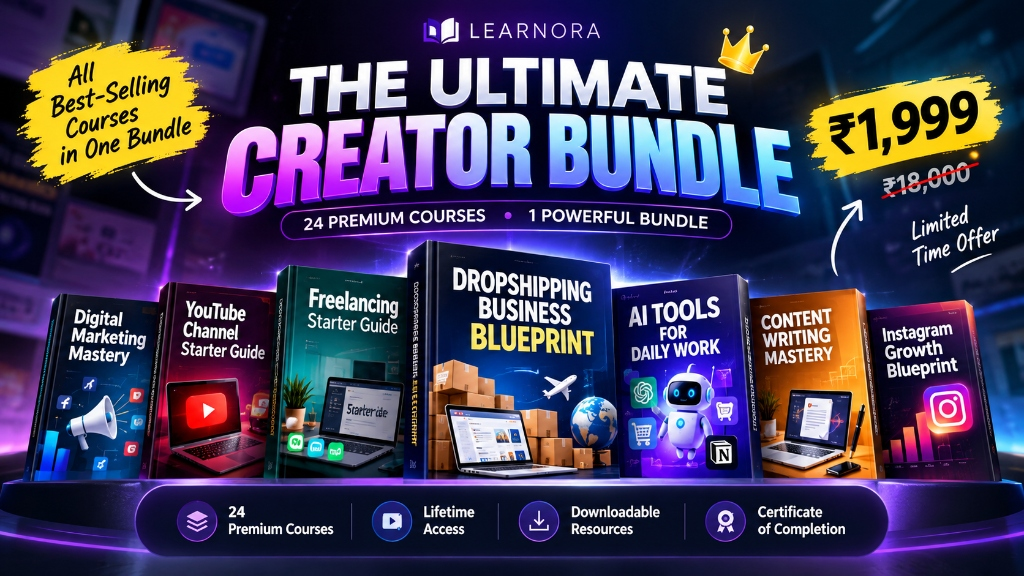
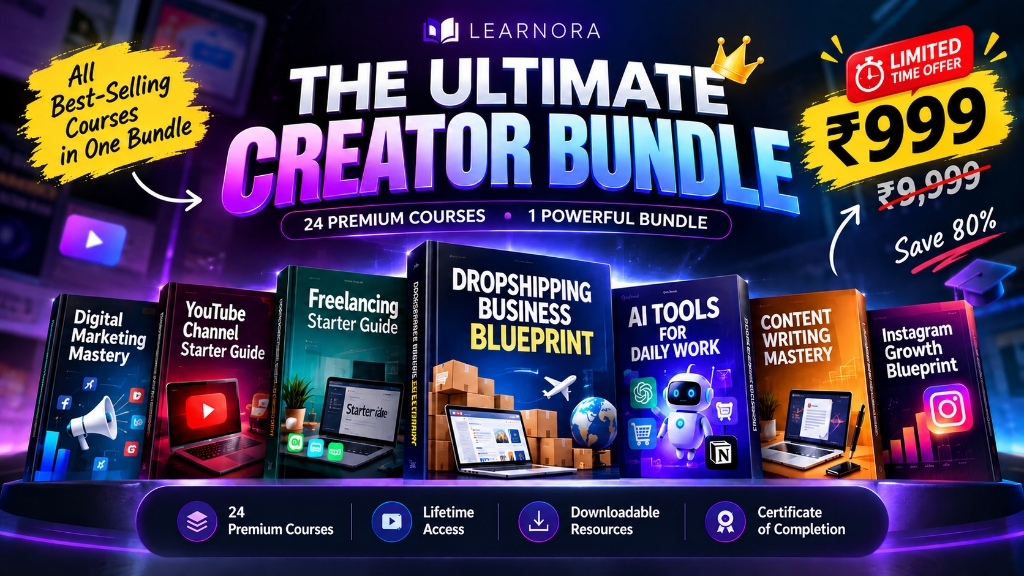
Updated bundle image and synced price tags to match new image

diff --git a/src/app/page.tsx b/src/app/page.tsx
@@ -95,7 +95,7 @@ export default function Home() {
               </span>
               <h2 className="text-3xl md:text-5xl font-extrabold text-white mb-6 tracking-tight">The Ultimate Creator Bundle</h2>
               <p className="text-xl text-gray-300 mb-8 max-w-2xl mx-auto">
-                Get ALL 24 premium courses (worth ₹11,000+) for a single one-time payment.
+                Get ALL 24 premium courses (worth ₹9,999) for a single one-time payment.
               </p>
               
               <div className="relative w-full max-w-3xl mx-auto aspect-video rounded-2xl overflow-hidden mb-10 shadow-2xl border-4 border-surface-soft/20">
@@ -104,7 +104,7 @@ export default function Home() {
 
               <div className="flex items-end justify-center space-x-4 mb-10">
                 <span className="text-6xl font-extrabold text-white">₹999</span>
-                <span className="text-2xl text-gray-500 line-through font-bold mb-2">₹11,176</span>
+                <span className="text-2xl text-gray-500 line-through font-bold mb-2">₹9,999</span>
               </div>
               <Link href="/checkout?courseId=bundle" className="inline-block bg-white text-gray-900 font-extrabold text-lg py-4 px-10 rounded-xl hover:bg-gray-100 transition-all shadow-lg hover:shadow-xl hover:-translate-y-1">
                 Unlock Everything Now
